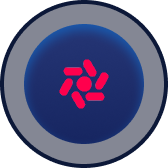
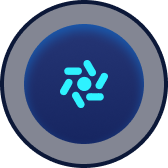
color:change

Changed region(s): [[0.3274, 0.3274, 0.6548, 0.6548]]

diff --git a/src/sections/Pricing.jsx b/src/sections/Pricing.jsx
@@ -4,27 +4,10 @@ import { Element } from "react-scroll";
 import { plans } from "../constants";
 import CountUp from "react-countup";
 import Button from "../components/Button";
-import { useSwipeable } from "react-swipeable";
 
 const Pricing = () => {
   const [monthly, setMonthly] = useState(true);
 
-  const containerRef = useRef(null);
-
-  const handlers = useSwipeable({
-    onSwipedLeft: () => {
-      if (containerRef.current) {
-        containerRef.current.scrollBy({ left: 300, behavior: "smooth" });
-      }
-    },
-    onSwipedRight: () => {
-      if (containerRef.current) {
-        containerRef.current.scrollBy({ left: -300, behavior: "smooth" });
-      }
-    },
-    preventDefaultTouchmoveEvent: true,
-    trackMouse: true,
-  });
   return (
     <section>
       <Element name="pricing">
@@ -95,9 +78,7 @@ const Pricing = () => {
             <img src="/images/right-arrow.svg" width={14} alt="" />
           </div>
           <div
-            {...handlers}
-            ref={containerRef}
-            className="scroll-hide scroll-snap-x-mandatory relative z-2 -mt-12 flex items-start 
+            className="scroll-hide relative z-2 -mt-12 flex items-start 
                     max-xl:gap-5 max-xl:overflow-auto max-xl:pt-6 "
           >
             {plans.map(
@@ -116,7 +97,7 @@ const Pricing = () => {
               ) => (
                 <div
                   key={id}
-                  className="snap-start pricing-plan_first pricing-plan_last
+                  className="pricing-plan_first pricing-plan_last
                              pricing-plan_odd pricing-plan_even relative border-2 p-7
                               max-xl:min-w-80 max-lg:rounded-3xl xl:w-[calc(33.33%+2px)]"
                 >

diff --git a/src/components/FaqItems.jsx b/src/components/FaqItems.jsx
@@ -34,7 +34,7 @@ const FaqItems = ({ item, index }) => {
 
         <div className={clsx(
            "faq-icon relative flex size-12 items-center justify-center rounded-full border-2 border-s2 shadow-400 transition-all duration-500 group-hover:border-s4" ,
-           active && "before:bg-p1 after:rotate-[0] after:bg-p7"
+           active && "before:bg-p7 after:rotate-[0] after:bg-p7"
             )}>
             <div className="g4 size-11/12 rounded-full shadow-300"  />
         </div>
@@ -53,7 +53,7 @@ const FaqItems = ({ item, index }) => {
         active && "opacity-100"
         )}>
         <div className="g4 absolute inset-0.5 -z-1 rounded-3xl" />
-        <div className="absolute left-8 top-0 h-0.5 w-40 bg-p1 rounded-3xl" />
+        <div className="absolute left-8 top-0 h-0.5 w-40 bg-p7 rounded-3xl" />
       </div>
     </div>
   );

diff --git a/src/components/Button.jsx b/src/components/Button.jsx
@@ -16,7 +16,7 @@ const Button = ({
     <>
       <span className="relative flex items-center min-h-[60px] px-4 g4 rounded-2xl inner-before group-hover:before:opacity-100 overflow-hidden">
         <span className="absolute -left-[1px]">
-          <Marker markerFill={ ([0,2]).includes(alt)  ? "#3ABEF9" : markerfill} />
+          <Marker markerFill={ alt === 1  ? "#FDE767" : markerfill  } />
         </span>
         {icon && (
           <img
@@ -27,7 +27,7 @@ const Button = ({
         )}
 
         <span className={clsx("relative z-2 font-poppins base-bold  uppercase", 
-          ([0,2]).includes(alt) ? " text-p3" : "text-p7"
+          alt === 1 ? " text-p7" : "text-p3"
         )}>
           {children}
         </span>

diff --git a/src/index.css b/src/index.css
@@ -6,7 +6,7 @@
 
 @layer base {
   html {
-    @apply bg-s6;
+    @apply bg-s1;
   }
 
   body {
@@ -153,7 +153,7 @@
 
 
   .nav-active {
-    @apply text-p3;
+    @apply text-p7;
   }
 
   .nav-li {
@@ -238,7 +238,7 @@
   }
 
   .faq-icon {
-    @apply before:absolute before:h-0.5 before:w-3 before:bg-p1 before:content-[''] after:absolute after:h-0.5 after:w-3 after:rotate-90 after:bg-p1 after:transition-all after:duration-500 after:content-[''];
+    @apply before:absolute before:h-0.5 before:w-3 before:bg-p7 before:content-[''] after:absolute after:h-0.5 after:w-3 after:rotate-90 after:bg-p7 after:transition-all after:duration-500 after:content-[''];
   }
 
  

diff --git a/tailwind.config.js b/tailwind.config.js
@@ -4,13 +4,13 @@ export default {
   theme: {
     extend: {
       colors: {
-        p1: "#FF004D",
+        p1: "#3ABEF9",
         p2: "#3C52D9",
         p3: "#3ABEF9",
         p4: "#EAEDFF",
         p5: "#C4CBF5",
         p6: "#FF5F9E",
-        p7: "#FA6995",
+        p7: "#FDE767",
         s1: "#080D27",
         s2: "#0C1838",
         s3: "#334679",

diff --git a/src/components/Marker.jsx b/src/components/Marker.jsx
@@ -11,7 +11,7 @@ const Marker = ({ markerFill }) => {
           fillRule="evenodd"
           clipRule="evenodd"
           d="M2.5 0H0.5V4V18V22H2.5V16.25L7.63991 11.7526C8.09524 11.3542 8.09524 10.6458 7.63991 10.2474L2.5 5.75V0Z"
-          fill={markerFill || "#FF004D"}
+          fill={markerFill || "#3ABEF9"}
         />
       </svg>
      );
